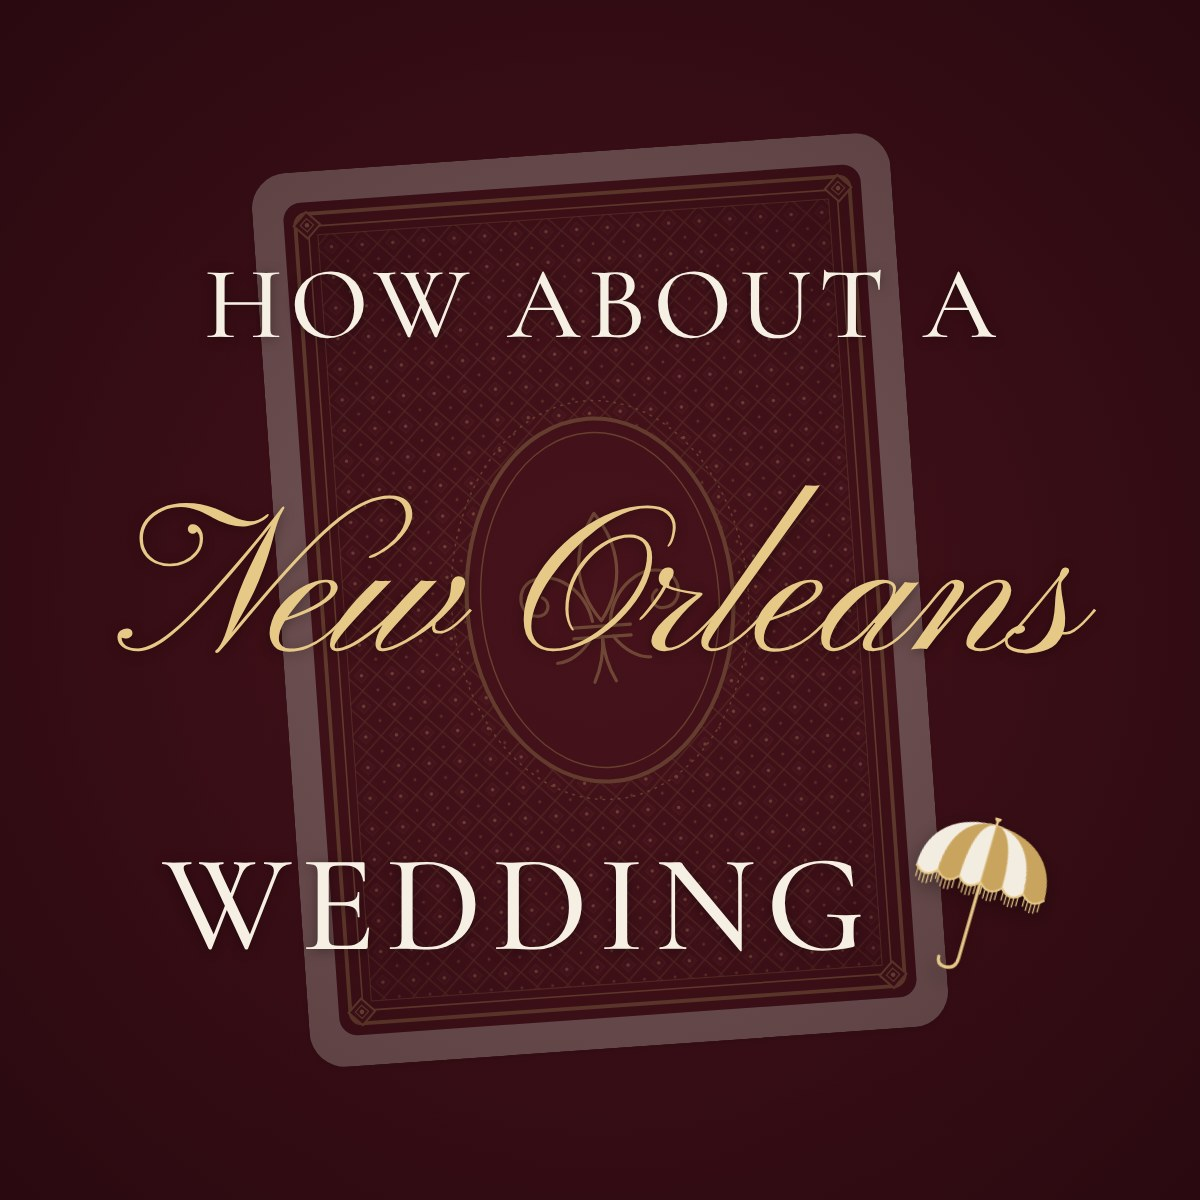
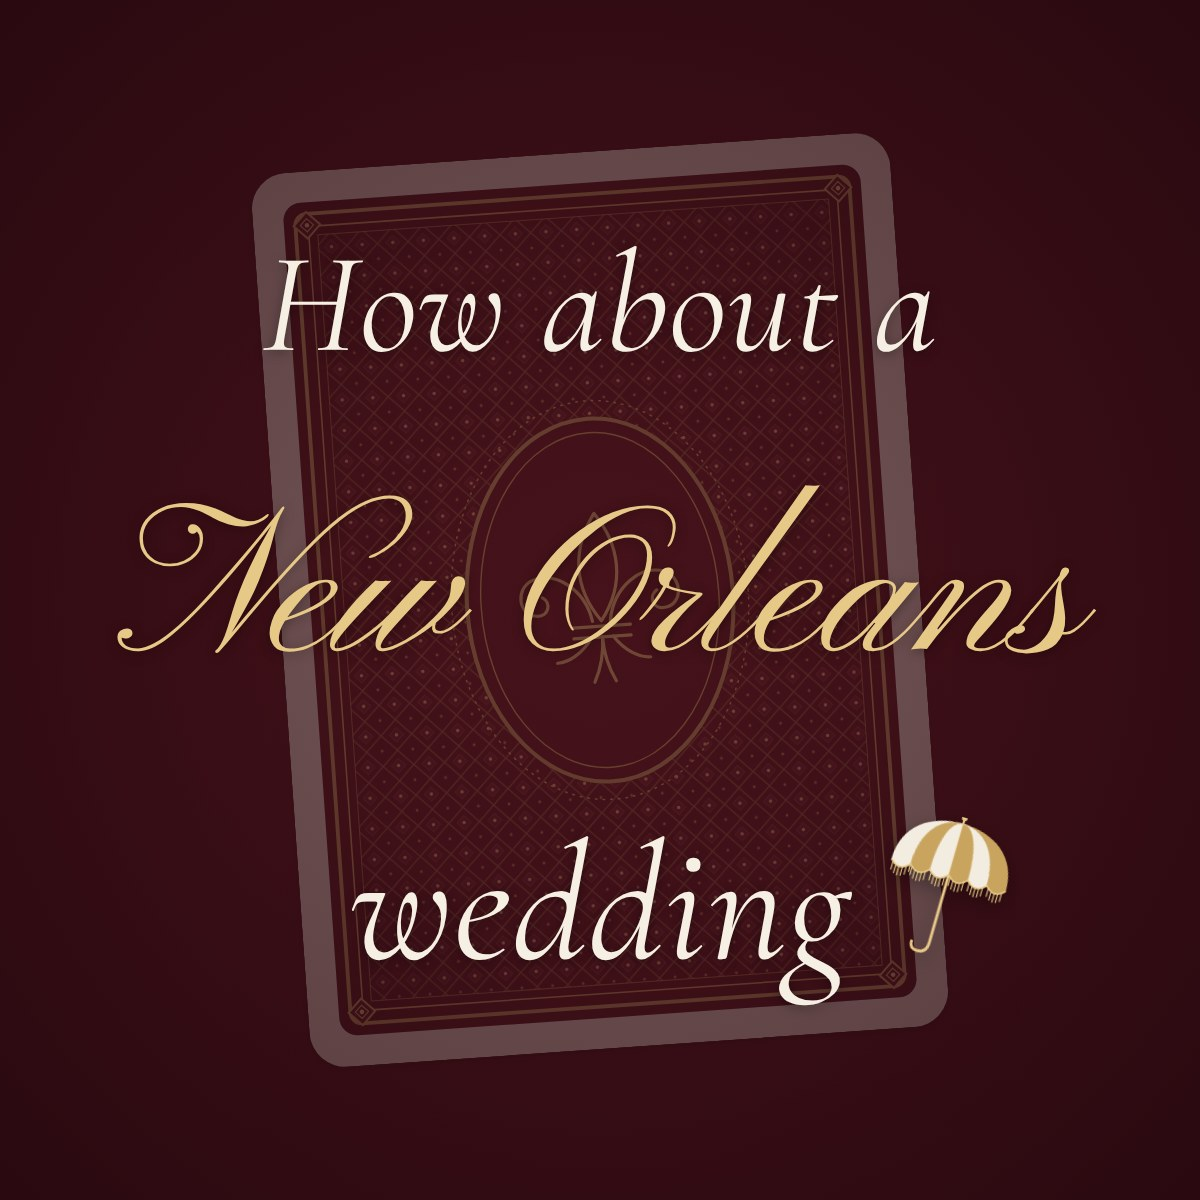
Preview tests: sentence-case italic lines, centered wedding with parasol
Claude-Session: https://claude.ai/code/session_016KBQnmGzJaodTgtuWJa9K5

Changed region(s): [[0.1233, 0.6783, 0.7092, 0.8633], [0.1542, 0.2158, 0.8325, 0.3083], [0.74, 0.6783, 0.8942, 0.8017]]

diff --git a/tools/make-previews.js b/tools/make-previews.js
@@ -27,17 +27,17 @@ const titleCSS = (k, pos) => `
 .wash{position:absolute;inset:0;background:radial-gradient(ellipse at center,rgba(58,14,22,.66) 0%,rgba(40,9,15,.8) 100%)}
 .title{position:absolute;inset:0;text-shadow:0 2px 12px rgba(0,0,0,.35)}
 .title > *{position:absolute;left:0;right:0;transform:translateY(-50%);display:flex;justify-content:center;align-items:center;text-align:center}
-.title .a{top:${pos.a}px;font-family:"Cormorant Garamond",Georgia,serif;font-weight:500;color:#f6f0e4;font-size:${92*k}px;letter-spacing:.07em;padding-left:.07em;text-transform:uppercase;line-height:1;white-space:nowrap}
+.title .a{top:${pos.a}px;font-family:"Cormorant Garamond",Georgia,serif;font-style:italic;font-weight:400;color:#f6f0e4;font-size:${128*k}px;letter-spacing:.01em;line-height:1;white-space:nowrap}
 .title .no{top:${pos.no}px;font-family:"Pinyon Script",cursive;color:#e6c887;font-size:${190*k}px;line-height:1.15;white-space:nowrap}
-.title .wed{top:${pos.wed}px;gap:${22*k}px}
-.title .wed span{font-family:"Cormorant Garamond",Georgia,serif;font-weight:500;color:#f6f0e4;font-size:${124*k}px;letter-spacing:.07em;
-  padding-left:.07em;text-transform:uppercase;line-height:1}
-.title .wed .p{width:${132*k}px;transform:rotate(16deg) translateY(${-8*k}px);filter:drop-shadow(0 8px 10px rgba(0,0,0,.35))}
+.title .wed{top:${pos.wed}px}
+.title .wed .w{position:relative;display:inline-block}
+.title .wed span{font-family:"Cormorant Garamond",Georgia,serif;font-style:italic;font-weight:400;color:#f6f0e4;font-size:${150*k}px;letter-spacing:.01em;line-height:1}
+.title .wed .p{position:absolute;left:100%;top:50%;margin-left:${24*k}px;width:${118*k}px;transform:translateY(-62%) rotate(16deg);filter:drop-shadow(0 8px 10px rgba(0,0,0,.35))}
 .title .wed .p svg{display:block;width:100%;height:auto}
 .title .wed .p path[stroke="#3a2a22"]{stroke:#e6c887}`;
 const titleHTML = `<div class="wash"></div><div class="title"><div class="a">How about a</div><div class="no">New Orleans</div>
-<div class="wed"><span>Wedding</span><div class="p">${parasolSVG(["#f3ece0", "#c9a45f", "#e6c887"])}</div></div></div>`;
-const FONTS = `<link href="https://fonts.googleapis.com/css2?family=Pinyon+Script&family=Cormorant+Garamond:wght@500&display=swap" rel="stylesheet">`;
+<div class="wed"><div class="w"><span>wedding</span><div class="p">${parasolSVG(["#f3ece0", "#c9a45f", "#e6c887"])}</div></div></div></div>`;
+const FONTS = `<link href="https://fonts.googleapis.com/css2?family=Pinyon+Script&family=Cormorant+Garamond:ital,wght@0,500;1,400;1,500&display=swap" rel="stylesheet">`;
 // Card-shaped (5:7) preview: the card back edge to edge.
 const portrait = `<!doctype html><html><head>${FONTS}<style>*{margin:0}body{width:1000px;height:1400px;overflow:hidden;position:relative;background:#efe9dd}
 svg.art{width:100%;height:100%;display:block}${titleCSS(1, {a: 285, no: 700, wed: 1125})}</style></head>

diff --git a/preview-test/portrait.html b/preview-test/portrait.html
@@ -10,13 +10,13 @@
   <meta property="og:url" content="https://aneworleanswedding.com/preview-test/portrait.html">
   <meta property="og:title" content="Ailsa ⚜ André">
   <meta property="og:description" content="Save the date · January 8, 2028 · New Orleans, Louisiana">
-  <meta property="og:image" content="https://aneworleanswedding.com/assets/og-card-portrait.jpg?v=9">
+  <meta property="og:image" content="https://aneworleanswedding.com/assets/og-card-portrait.jpg?v=10">
   <meta property="og:image:type" content="image/jpeg">
   <meta property="og:image:width" content="1000">
   <meta property="og:image:height" content="1400">
   <meta property="og:image:alt" content="A maroon playing card back with a gold fleur-de-lis medallion">
   <meta name="twitter:card" content="summary_large_image">
-  <meta name="twitter:image" content="https://aneworleanswedding.com/assets/og-card-portrait.jpg?v=9">
+  <meta name="twitter:image" content="https://aneworleanswedding.com/assets/og-card-portrait.jpg?v=10">
   <link rel="icon" href="../favicon.svg" type="image/svg+xml">
   <style>body{margin:0;min-height:100vh;display:grid;place-items:center;background:#f8f4ec;font-family:Georgia,serif;color:#2f3a33;text-align:center;padding:24px}a{color:#5c1a24}</style>
 </head>

diff --git a/preview-test/square.html b/preview-test/square.html
@@ -10,13 +10,13 @@
   <meta property="og:url" content="https://aneworleanswedding.com/preview-test/square.html">
   <meta property="og:title" content="Ailsa ⚜ André">
   <meta property="og:description" content="Save the date · January 8, 2028 · New Orleans, Louisiana">
-  <meta property="og:image" content="https://aneworleanswedding.com/assets/og-card-square.jpg?v=9">
+  <meta property="og:image" content="https://aneworleanswedding.com/assets/og-card-square.jpg?v=10">
   <meta property="og:image:type" content="image/jpeg">
   <meta property="og:image:width" content="1200">
   <meta property="og:image:height" content="1200">
   <meta property="og:image:alt" content="A maroon playing card back with a gold fleur-de-lis medallion">
   <meta name="twitter:card" content="summary_large_image">
-  <meta name="twitter:image" content="https://aneworleanswedding.com/assets/og-card-square.jpg?v=9">
+  <meta name="twitter:image" content="https://aneworleanswedding.com/assets/og-card-square.jpg?v=10">
   <link rel="icon" href="../favicon.svg" type="image/svg+xml">
   <style>body{margin:0;min-height:100vh;display:grid;place-items:center;background:#f8f4ec;font-family:Georgia,serif;color:#2f3a33;text-align:center;padding:24px}a{color:#5c1a24}</style>
 </head>
